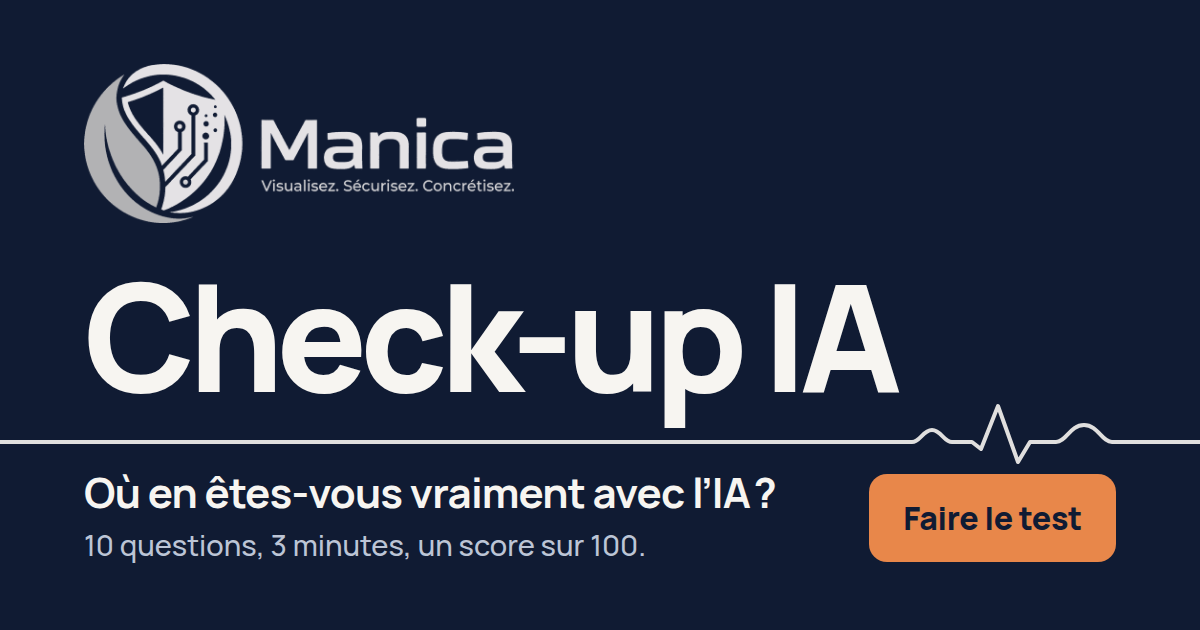
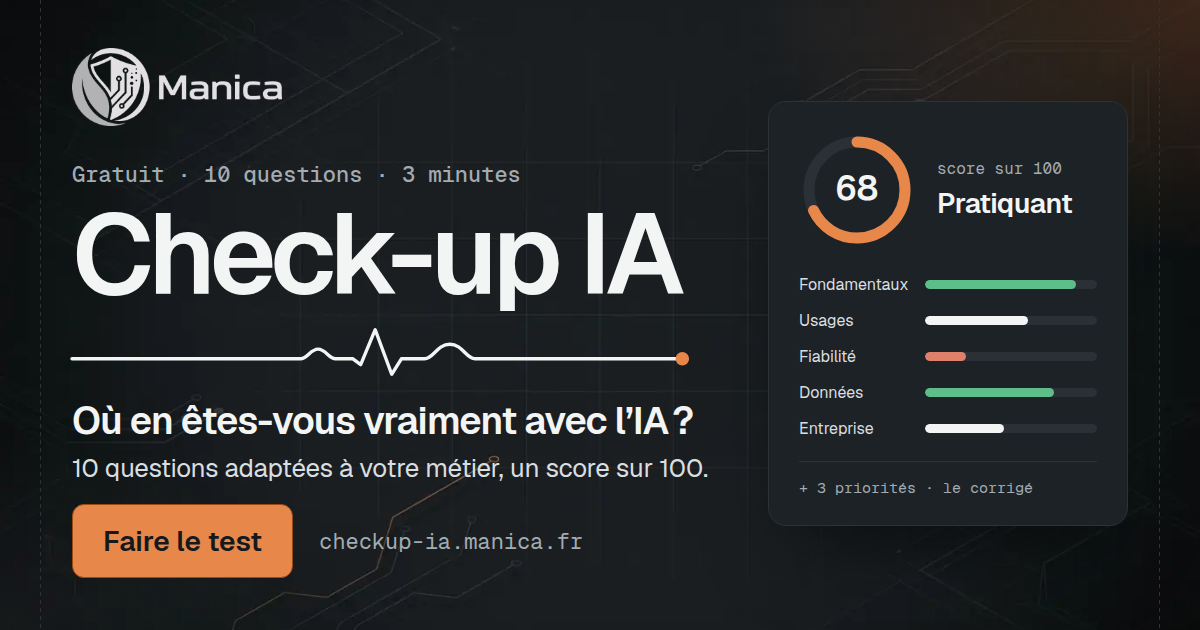
Images de partage au style de la refonte
- og-image.png : graphite à circuits, lueur ambrée, Geist, mini carte de résultat
- Images de score (story, publication) : texture à circuits, lueur ambrée,
  barres colorées par axe, Geist Mono

diff --git a/tools/og-image.html b/tools/og-image.html
@@ -2,21 +2,33 @@
 <html lang="fr">
 <head>
 <meta charset="utf-8">
-<!-- Source de og-image.png (1200×630). Régénérer : voir docs/CDC.md, section « Assets ». -->
+<!-- Source de og-image.png (1200×630). Régénérer : voir docs/CDC.md, section « Assets ».
+     Direction « Graphite & Ambre » du site manica.fr : section sombre à circuits, ambre réservé à l'action. -->
 <style>
 @font-face {
-  font-family: "Manrope";
-  src: url("../fonts/manrope-latin.woff2") format("woff2");
-  font-weight: 400 800;
+  font-family: "Geist";
+  src: url("../fonts/geist-latin.woff2") format("woff2");
+  font-weight: 100 900;
+}
+@font-face {
+  font-family: "Geist Mono";
+  src: url("../fonts/geist-mono-latin.woff2") format("woff2");
+  font-weight: 100 900;
 }
 html, body { margin: 0; }
 body {
   width: 1200px;
   height: 630px;
   overflow: hidden;
-  background: #101B33;
-  color: #F7F5F1;
-  font-family: "Manrope", sans-serif;
+  background-color: #15191C;
+  background-image:
+    radial-gradient(46rem 26rem at 100% 0%, rgb(232 135 74 / .22), transparent 62%),
+    radial-gradient(30rem 20rem at 0% 100%, rgb(142 152 158 / .10), transparent 60%),
+    url("../img/fond-circuits.webp");
+  background-size: auto, auto, cover;
+  background-position: 0 0, 0 0, center;
+  color: #F3F5F5;
+  font-family: "Geist", sans-serif;
   -webkit-font-smoothing: antialiased;
 }
 .card {
@@ -24,63 +36,123 @@ body {
   box-sizing: border-box;
   width: 1200px;
   height: 630px;
-  padding: 64px 84px 68px;
-  display: flex;
-  flex-direction: column;
+  padding: 48px 72px 52px;
+  display: grid;
+  grid-template-columns: 1fr 360px;
+  column-gap: 56px;
 }
-/* Logo sombre sur transparent, inversé pour ressortir sur le bleu nuit */
-.logo { display: block; width: 430px; height: auto; filter: invert(1); }
-.title {
-  margin: 44px 0 0;
-  font-size: 150px;
-  font-weight: 800;
-  letter-spacing: -0.05em;
-  line-height: .9;
-}
-.pulse {
+/* Filets pointillés et repères « + » du plan, comme le site */
+.card::before, .card::after {
+  content: "";
   position: absolute;
-  left: 0;
-  top: 402px;
-  width: 1200px;
-  height: 64px;
+  top: 0;
+  bottom: 0;
+  width: 1px;
+  background-image: linear-gradient(to bottom, #2C3236 50%, transparent 50%);
+  background-size: 1px 8px;
 }
-.bottom {
-  margin-top: auto;
-  display: flex;
-  align-items: flex-end;
-  justify-content: space-between;
-  gap: 40px;
+.card::before { left: 40px; }
+.card::after { right: 40px; }
+.gauche { display: flex; flex-direction: column; min-width: 0; }
+/* Logo sombre sur transparent, inversé pour ressortir sur le graphite */
+.logo { display: block; width: 210px; height: auto; filter: invert(1); }
+.surtitre {
+  margin: 34px 0 0;
+  font-family: "Geist Mono", monospace;
+  font-size: 22px;
+  font-weight: 500;
+  color: #A3ACB2;
 }
+.title {
+  margin: 14px 0 0;
+  font-size: 114px;
+  font-weight: 600;
+  letter-spacing: -0.05em;
+  line-height: .92;
+  white-space: nowrap;
+}
+.pulse { display: block; width: 620px; height: 54px; margin: 18px 0 0; overflow: visible; }
 .lead {
-  margin: 0;
-  font-size: 42px;
-  font-weight: 700;
-  line-height: 1.18;
-  letter-spacing: -0.02em;
+  margin: 20px 0 0;
+  font-size: 38px;
+  font-weight: 600;
+  line-height: 1.16;
+  letter-spacing: -0.025em;
 }
-.lead span { display: block; margin-top: 10px; font-size: 29px; font-weight: 500; color: #BCC5D6; letter-spacing: 0; }
+.lead span { display: block; margin-top: 10px; font-size: 26px; font-weight: 400; color: #D9DEE0; letter-spacing: -0.01em; }
+.bas { margin-top: auto; display: flex; align-items: center; gap: 26px; }
 .pill {
-  flex: none;
-  padding: 22px 34px;
-  border-radius: 18px;
+  padding: 18px 30px;
+  border: 1px solid #9C4A14;
+  border-radius: 12px;
   background: #E8874A;
-  color: #101B33;
-  font-size: 32px;
-  font-weight: 800;
-  letter-spacing: -0.01em;
+  color: #15191C;
+  font-size: 28px;
+  font-weight: 600;
 }
+.url { font-family: "Geist Mono", monospace; font-size: 22px; color: #A3ACB2; }
+
+/* Mini carte de résultat (illustration, score fictif) */
+.droite { align-self: center; }
+.res {
+  padding: 30px 30px 28px;
+  border: 1px solid #2C3236;
+  border-radius: 18px;
+  background: #1D2226;
+  box-shadow: 0 40px 80px -30px rgb(0 0 0 / .6);
+}
+.res-tete { display: flex; align-items: center; gap: 22px; }
+.res-tete svg { flex: none; width: 116px; height: 116px; }
+.res-label { font-family: "Geist Mono", monospace; font-size: 16px; color: #A3ACB2; }
+.res-niveau { margin-top: 6px; font-size: 28px; font-weight: 600; letter-spacing: -0.02em; }
+.axes { margin-top: 26px; display: grid; gap: 15px; }
+.axe { display: grid; grid-template-columns: 112px 1fr; gap: 14px; align-items: center; font-size: 16px; color: #D9DEE0; }
+.piste { height: 9px; border-radius: 5px; background: #2A3035; overflow: hidden; }
+.piste i { display: block; height: 100%; border-radius: 5px; }
+.ok { background: #5DBE89; }
+.mid { background: #F3F5F5; }
+.ko { background: #E07F6A; }
+.res-pied { margin-top: 22px; padding-top: 16px; border-top: 1px solid #2C3236; font-family: "Geist Mono", monospace; font-size: 15px; color: #A3ACB2; }
 </style>
 </head>
 <body>
 <div class="card">
-  <img class="logo" src="../img/logo-manica-baseline-900.png" alt="Manica">
-  <h1 class="title">Check-up IA</h1>
-  <svg class="pulse" viewBox="0 0 1200 64" aria-hidden="true">
-    <path d="M0 40 H912 C920 40 923 28 932 28 C941 28 944 40 952 40 H972 L981 47 L998 4 L1018 60 L1030 40 H1056 C1066 40 1070 23 1084 23 C1098 23 1102 40 1112 40 H1200" fill="none" stroke="#F7F5F1" stroke-width="4" stroke-linecap="round" stroke-linejoin="round" opacity=".9"/>
-  </svg>
-  <div class="bottom">
-    <p class="lead">Où en êtes-vous vraiment avec l’IA&#8239;?<span>10 questions, 3 minutes, un score sur 100.</span></p>
-    <span class="pill">Faire le test</span>
+  <div class="gauche">
+    <img class="logo" src="../img/logo-manica-300.png" alt="Manica">
+    <p class="surtitre">Gratuit · 10 questions · 3 minutes</p>
+    <h1 class="title">Check-up IA</h1>
+    <svg class="pulse" viewBox="0 0 640 54" aria-hidden="true">
+      <path d="M0 34 H236 C243 34 246 24 254 24 C262 24 265 34 272 34 H290 L298 40 L313 4 L330 50 L340 34 H364 C373 34 377 19 390 19 C403 19 407 34 416 34 H626" fill="none" stroke="#F3F5F5" stroke-width="3.5" stroke-linecap="round" stroke-linejoin="round"/>
+      <circle cx="630" cy="34" r="7" fill="#E8874A"/>
+    </svg>
+    <p class="lead">Où en êtes-vous vraiment avec l’IA&#8239;?<span>10 questions adaptées à votre métier, un score sur 100.</span></p>
+    <div class="bas">
+      <span class="pill">Faire le test</span>
+      <span class="url">checkup-ia.manica.fr</span>
+    </div>
+  </div>
+  <div class="droite" aria-hidden="true">
+    <div class="res">
+      <div class="res-tete">
+        <svg viewBox="0 0 116 116">
+          <circle cx="58" cy="58" r="48" fill="none" stroke="#2A3035" stroke-width="11"/>
+          <circle cx="58" cy="58" r="48" fill="none" stroke="#E8874A" stroke-width="11" stroke-linecap="round" pathLength="100" stroke-dasharray="68 100" transform="rotate(-90 58 58)"/>
+          <text x="58" y="68" text-anchor="middle" font-family="Geist" font-size="34" font-weight="600" fill="#F3F5F5">68</text>
+        </svg>
+        <div>
+          <div class="res-label">score sur 100</div>
+          <div class="res-niveau">Pratiquant</div>
+        </div>
+      </div>
+      <div class="axes">
+        <div class="axe">Fondamentaux<span class="piste"><i class="ok" style="width:88%"></i></span></div>
+        <div class="axe">Usages<span class="piste"><i class="mid" style="width:60%"></i></span></div>
+        <div class="axe">Fiabilité<span class="piste"><i class="ko" style="width:24%"></i></span></div>
+        <div class="axe">Données<span class="piste"><i class="ok" style="width:75%"></i></span></div>
+        <div class="axe">Entreprise<span class="piste"><i class="mid" style="width:46%"></i></span></div>
+      </div>
+      <div class="res-pied">+ 3 priorités · le corrigé</div>
+    </div>
   </div>
 </div>
 </body>

diff --git a/index.html b/index.html
@@ -2952,8 +2952,9 @@ textarea.post:focus-visible { outline: 2px solid var(--focus); outline-offset: 2
   // Image du score (story 1080×1920 ou publication 1080×1350), dessinée dans le navigateur : rien n'est envoyé.
   async function dessinerImage(resultat, profil, format) {
     const F = FORMATS_IMAGE[format];
-    await document.fonts.load('600 100px Geist');
+    await Promise.all([document.fonts.load('600 100px Geist'), document.fonts.load('500 40px "Geist Mono"')]);
     const logo = await chargerImage('img/logo-manica-baseline-clair-900.png');
+    const texture = await chargerImage('img/fond-circuits.webp').catch(() => null); // décor : facultatif
     const L = 1080;
     const marge = 96;
     const utile = L - 2 * marge;
@@ -2962,6 +2963,8 @@ textarea.post:focus-visible { outline: 2px solid var(--focus); outline-offset: 2
     canvas.height = F.hauteur;
     const ctx = canvas.getContext('2d');
     const police = (graisse, taille) => `${graisse} ${taille}px Geist, system-ui, sans-serif`;
+    const mono = taille => `500 ${taille}px "Geist Mono", ui-monospace, monospace`;
+    const COULEUR_TON = { ok: '#5DBE89', mid: '#F3F5F5', ko: '#E07F6A' };
     const barre = (x, y, largeur, hauteur, couleur) => {
       ctx.fillStyle = couleur;
       ctx.beginPath();
@@ -2970,12 +2973,24 @@ textarea.post:focus-visible { outline: 2px solid var(--focus); outline-offset: 2
       ctx.fill();
     };
 
+    // Fond graphite à circuits et lueur ambrée, comme les sections sombres du site.
     ctx.fillStyle = '#15191C';
+    ctx.fillRect(0, 0, L, F.hauteur);
+    if (texture) {
+      const echelle = Math.max(L / texture.width, F.hauteur / texture.height);
+      const tw = texture.width * echelle;
+      const th = texture.height * echelle;
+      ctx.drawImage(texture, (L - tw) / 2, (F.hauteur - th) / 2, tw, th);
+    }
+    const lueur = ctx.createRadialGradient(L, 0, 0, L, 0, L * 0.95);
+    lueur.addColorStop(0, 'rgba(232, 135, 74, .26)');
+    lueur.addColorStop(1, 'rgba(232, 135, 74, 0)');
+    ctx.fillStyle = lueur;
     ctx.fillRect(0, 0, L, F.hauteur);
     ctx.drawImage(logo, marge, F.logo, F.logoLargeur, F.logoLargeur * logo.height / logo.width);
 
     ctx.fillStyle = '#A3ACB2';
-    ctx.font = police(600, 56);
+    ctx.font = mono(48);
     ctx.fillText('Mon check-up IA', marge, F.libelle);
 
     const score = String(resultat.score);
@@ -2984,7 +2999,7 @@ textarea.post:focus-visible { outline: 2px solid var(--focus); outline-offset: 2
     ctx.fillText(score, marge - 12, F.score);
     const largeurScore = ctx.measureText(score).width;
     ctx.fillStyle = '#A3ACB2';
-    ctx.font = police(600, 88);
+    ctx.font = mono(80);
     ctx.fillText('/100', marge - 12 + largeurScore + 18, F.score);
 
     ctx.fillStyle = '#F3F5F5';
@@ -2999,10 +3014,11 @@ textarea.post:focus-visible { outline: 2px solid var(--focus); outline-offset: 2
       ctx.textAlign = 'left';
       ctx.fillText(typo(libelleAxe(axe, profil)), marge, y);
       ctx.textAlign = 'right';
+      ctx.font = mono(40);
       ctx.fillText(typo(`${d.pct} %`), L - marge, y);
       ctx.textAlign = 'left';
-      barre(marge, y + 22, utile, 18, '#2C3236');
-      if (d.pct > 0) barre(marge, y + 22, utile * d.pct / 100, 18, '#F3F5F5');
+      barre(marge, y + 22, utile, 18, '#2A3035');
+      if (d.pct > 0) barre(marge, y + 22, utile * d.pct / 100, 18, COULEUR_TON[tonAxe(d.pct).ton]);
       y += F.pas;
     }
 
@@ -3015,6 +3031,10 @@ textarea.post:focus-visible { outline: 2px solid var(--focus); outline-offset: 2
     [[640, 0], [654, 8], [678, -30], [704, 26], [720, 0]].forEach(([px, dy]) => ctx.lineTo(px, F.ecg + dy));
     ctx.lineTo(L, F.ecg);
     ctx.stroke();
+    ctx.fillStyle = '#E8874A';
+    ctx.beginPath();
+    ctx.arc(L - marge, F.ecg, 11, 0, 2 * Math.PI);
+    ctx.fill();
 
     ctx.fillStyle = '#A3ACB2';
     ctx.font = police(500, 38);

diff --git a/docs/CDC.md b/docs/CDC.md
@@ -257,7 +257,7 @@ Indicateur clé : taux de clic CTA = (`clic_rdv` + `clic_mail` + `copie_adresse`
 
 ## 8. État d'avancement
 
-- ✅ v2.1 (06/11/2026, déployée sur GitHub Pages) : refonte visuelle alignée sur la refonte du site manica.fr (direction « Graphite & Ambre », `~/www/manica`, branche `refonte/astro`, `docs/guide-graphique.md`). Police Geist + Geist Mono (OFL, `fonts/`), jetons graphite (clair `#F4F5F5`/encre `#15191C`, sombre = sections sombres du site), ambre réservé à l'action, fond de plan quadrillé et lueur ambrée, grain (`img/grain.png`), bloc RDV à circuits (`img/fond-circuits.webp`). Mobile d'abord, puis **mise en page bureau (≥ 1024 px)** : accueil en deux colonnes (texte + choix du profil / illustration SVG animée du parcours : 10 réponses → score → diagnostic par axe → e-mail + échange offert), « Ce que vous obtenez » et « Qui est derrière + FAQ » en deux colonnes, quiz en carte centrée, résultat avec la carte du score collante à gauche et le formulaire puis le diagnostic à droite ; filets pointillés et repères « + » au-delà de 1280 px. Mouvement en CSS seul : entrée en cascade à chaque écran, remplissage des boutons au survol, cartes de profil qui se soulèvent, apparitions au défilement (`animation-timeline: view()`, sans effet si non pris en charge), scène d'illustration jouée une fois ; `prefers-reduced-motion` → état final statique. En-tête pleine largeur avec le logo compact sur tous les écrans (le logo à baseline n'est plus affiché). Image de partage (canvas) passée en graphite + Geist. Reste en bleu nuit : `og-image.png` (à régénérer via `tools/og-image.html`).
+- ✅ v2.1 (06/11/2026, déployée sur GitHub Pages) : refonte visuelle alignée sur la refonte du site manica.fr (direction « Graphite & Ambre », `~/www/manica`, branche `refonte/astro`, `docs/guide-graphique.md`). Police Geist + Geist Mono (OFL, `fonts/`), jetons graphite (clair `#F4F5F5`/encre `#15191C`, sombre = sections sombres du site), ambre réservé à l'action, fond de plan quadrillé et lueur ambrée, grain (`img/grain.png`), bloc RDV à circuits (`img/fond-circuits.webp`). Mobile d'abord, puis **mise en page bureau (≥ 1024 px)** : accueil en deux colonnes (texte + choix du profil / illustration SVG animée du parcours : 10 réponses → score → diagnostic par axe → e-mail + échange offert), « Ce que vous obtenez » et « Qui est derrière + FAQ » en deux colonnes, quiz en carte centrée, résultat avec la carte du score collante à gauche et le formulaire puis le diagnostic à droite ; filets pointillés et repères « + » au-delà de 1280 px. Mouvement en CSS seul : entrée en cascade à chaque écran, remplissage des boutons au survol, cartes de profil qui se soulèvent, apparitions au défilement (`animation-timeline: view()`, sans effet si non pris en charge), scène d'illustration jouée une fois ; `prefers-reduced-motion` → état final statique. En-tête pleine largeur avec le logo compact sur tous les écrans (le logo à baseline n'est plus affiché). Image de partage (canvas) passée en graphite + Geist. `og-image.png` refaite dans le même style (graphite à circuits, lueur ambrée, mini carte de résultat au score fictif) ; images de score à partager (story, publication) avec texture à circuits, lueur ambrée, barres colorées par axe (vert / blanc / terre cuite, comme `tonAxe`) et Geist Mono.
 
 - ✅ v2.0 (06/11/2026, déployée sur GitHub Pages) : refonte « tunnel de conversion » d'après le coaching Funnel Building du 30/09/2026 — profils métier en un clic, quiz en 1 clic par question (10 clics au lieu de 19), corrigé à la fin, score libre puis diagnostic contre nom + e-mail (leads → Google Sheet via Apps Script, e-mail de notification et récapitulatif), code couleur par axe, bloc RDV à un seul bouton + réassurance, agenda Google intégré dans une fenêtre, bulle RDV avec photo, « Qui est derrière » + FAQ en accordéon sur l'accueil et le résultat, partage réduit, 38 questions ciblées (à valider), événements GoatCounter du tunnel, mentions légales réécrites (données collectées, Google Workspace, 3 ans). `validate.mjs` et `e2e.mjs` réécrits en conséquence (5 parcours par rôle, échec d'envoi, robot, copie refusée, stockage bloqué, hors ligne). Même jour : Apps Script déployé par Cédric (Google Sheet « leads », onglet `Leads`, URL dans `config.leads.url`, `doGet` vérifié), 38 questions passées à `valide`, `statuts_publies: ["valide"]` (plus de bandeau bêta), `a_propos.linkedin` renseigné, preuve reformulée sans durée chiffrée (« plusieurs années », pour ne pas vieillir). Après le premier test réel : l'envoi contient le corrigé complet ; Apps Script envoie des e-mails HTML (notification + récapitulatif) avec le diagnostic en PDF joint, et la colonne « Réponses » de la feuille détaille chaque question. Agenda Google : pas de pré-remplissage possible par l'adresse (nom et e-mail pré-remplis seulement si le visiteur est connecté à Google) ; alléger le formulaire de réservation côté Google Agenda. Premier lead réel testé de bout en bout par Cédric (ligne dans la feuille, notification et récapitulatif HTML avec PDF). **Reste à faire** : tester l'agenda intégré sur téléphone.
 
